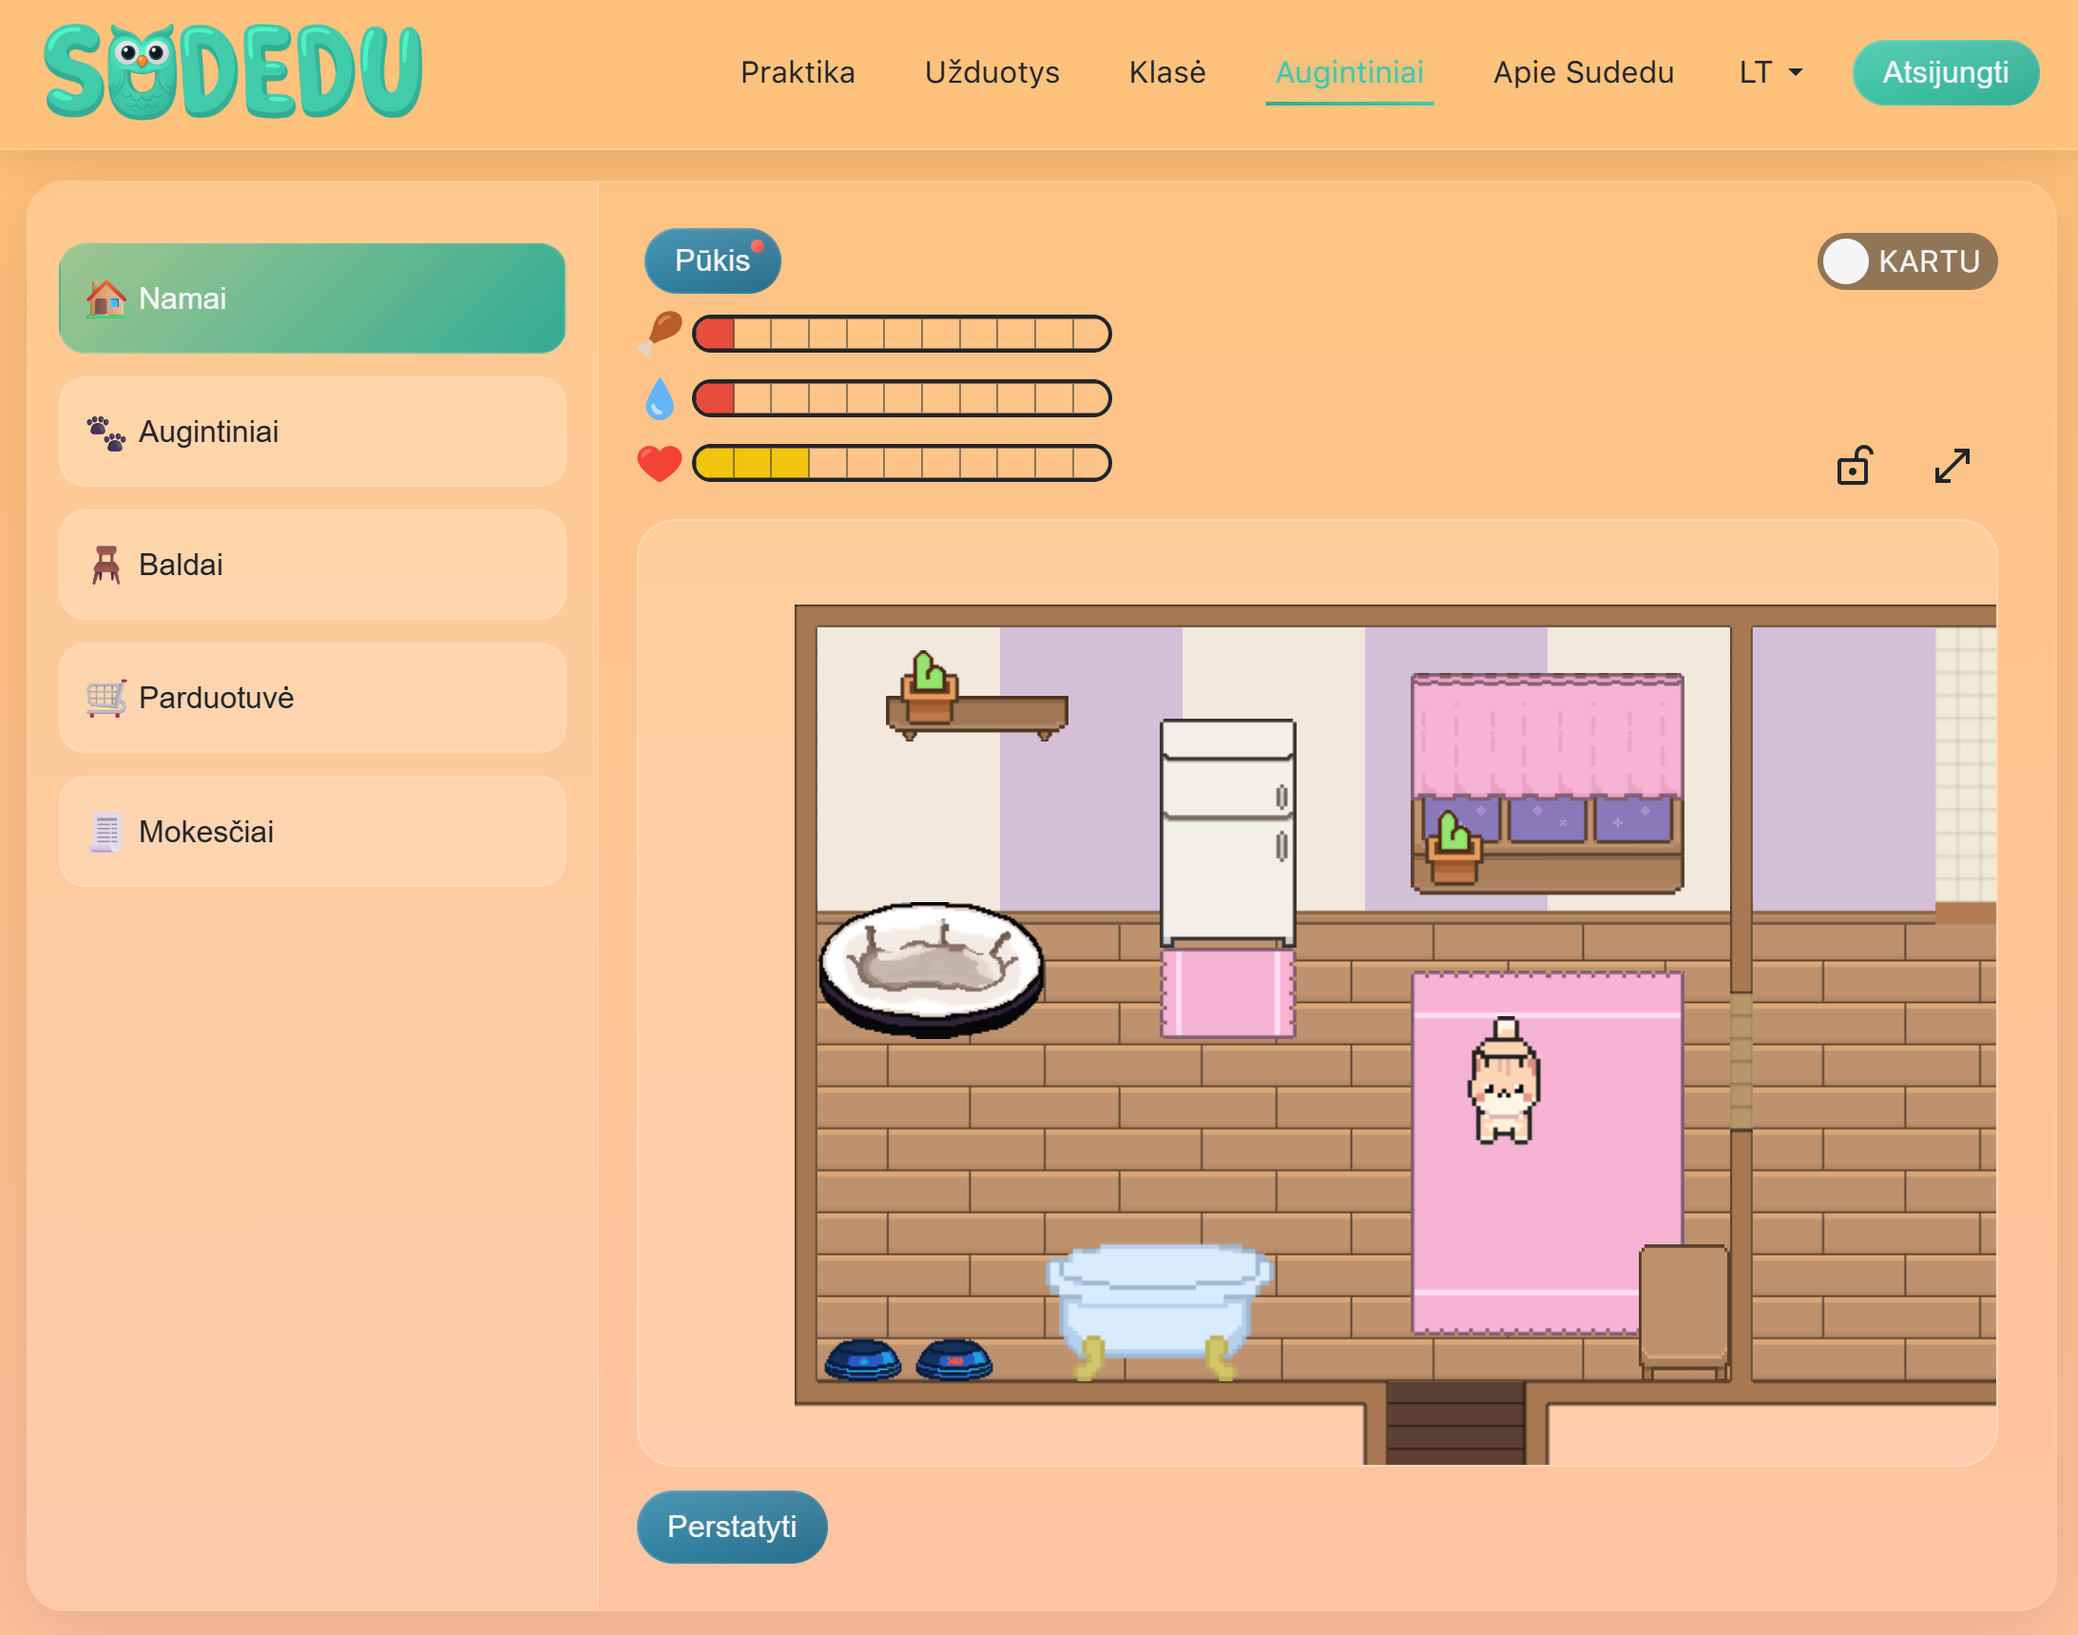
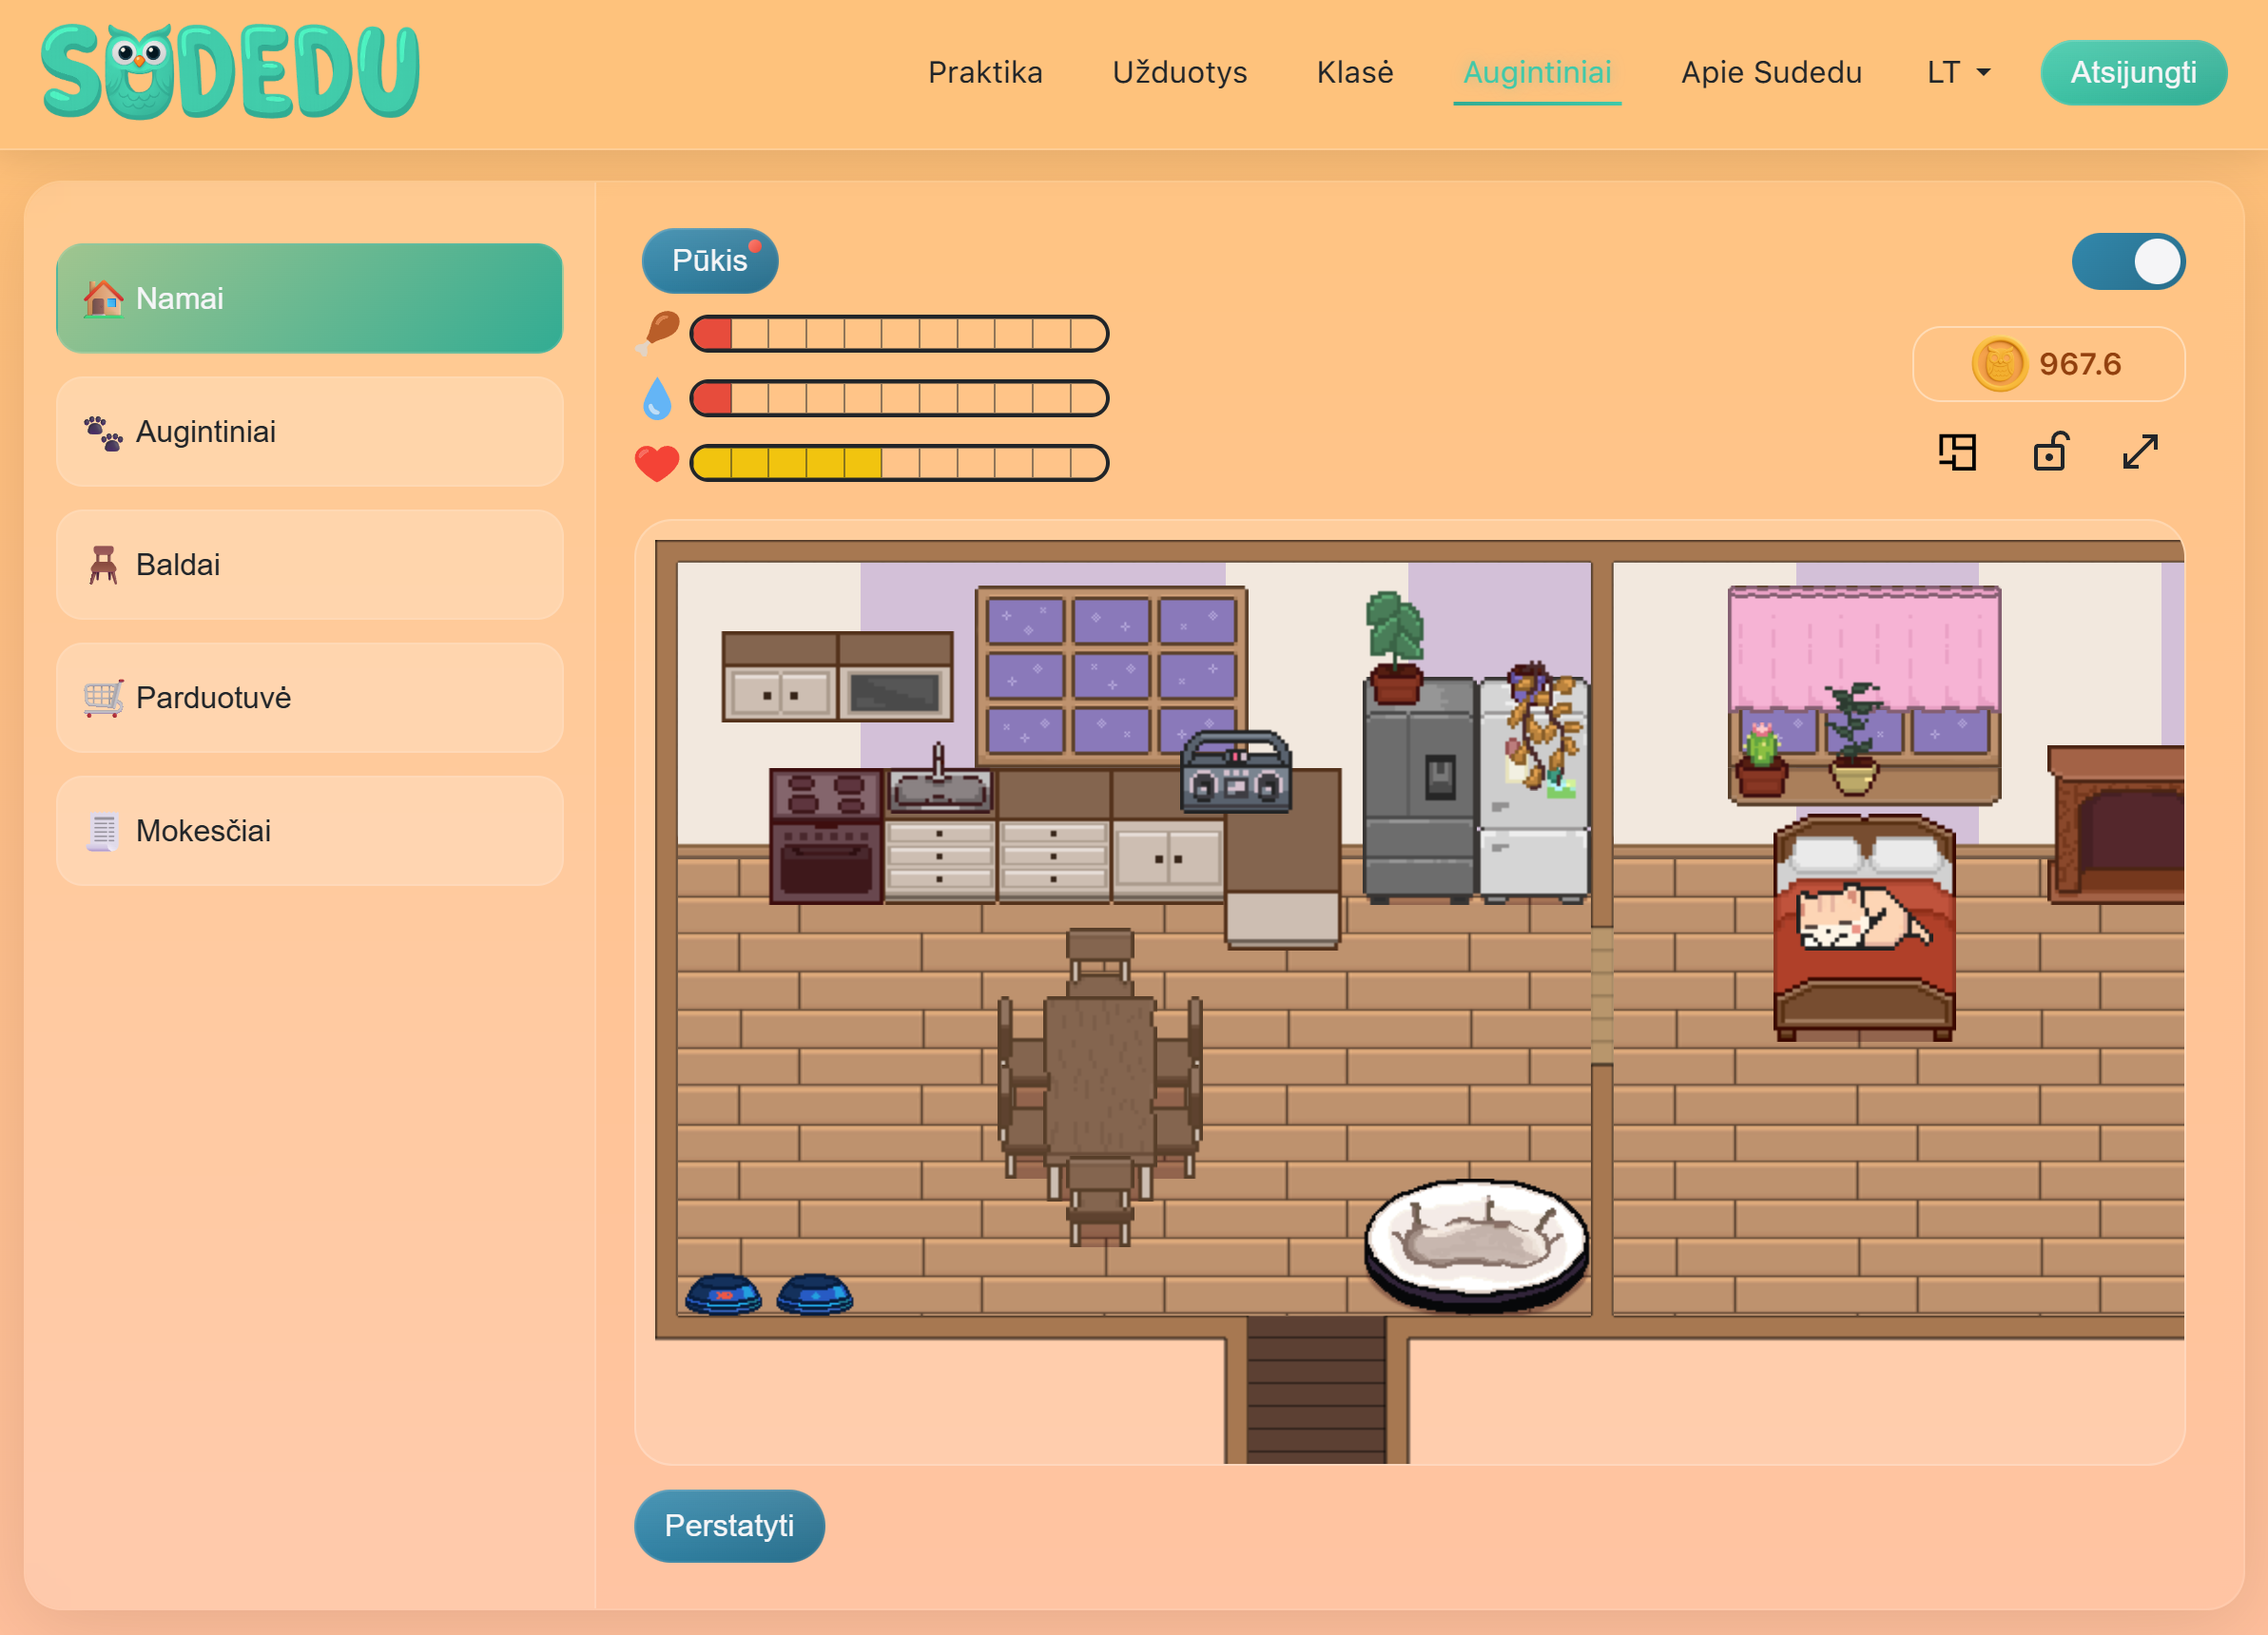
text-comp-point-calc-update

diff --git a/LT/apie.html b/LT/apie.html
@@ -122,6 +122,12 @@
             fill: #666;
         }
 
+        #floor-plan-btn-svg {
+            width: 20px;
+            height: 20px;
+            fill: #666;
+        }
+
         .stats-icon {
             height: 20px;
             width: 20px;
@@ -1262,8 +1268,9 @@
                                             </a></li>
                                         </ul>
                                         <li><a class="content-list-link" href="#mygtukas-kartu">Mygtukas „KARTU“</a></li>
-                                        <li><a class="content-list-link" href="#namu-dekoravimas">Namų dekoravimas</a></li>
+                                        <li><a class="content-list-link" href="#namu-dekoravimas">Namų planavimas</a></li>
                                         <ul style="padding-left: 10px;">
+                                            <li><a class="content-list-link" href="#kambariu-pristatymas">Kambarių pristatymas</a></li>
                                             <li><a class="content-list-link" href="#daiktu-pridejimas">Daiktų pridėjimas</a></li>
                                             <li><a class="content-list-link" href="#daiktu-perstatymas">Daiktų perstatymas</a></li>
                                             <li><a class="content-list-link" href="#daiktu-salinimas">Daiktų šalinimas</a></li>
@@ -1499,8 +1506,27 @@
 						<dd>
 							Mokinių taškai apskaičiuojami pagal SUDEDU formulę, paremtą pradinio ugdymo programa. Mokiniai taškus gauna tik atlikdami
 							užduotis, atitinkančias arba viršijančias jų žinių lygį. Matematikos ir gramtikos užduotyse, taškai skiriami tik už iš pirmo karto
-							teisingai atsakytus klausimus. Teksto suvokimo užduotyse, taškai uždirbami padarius iki 3 klaidų - kiekviena klaida maksimalų taškų
-							skaičių sumažina ketvirtadaliu.<br>
+							teisingai atsakytus klausimus. Teksto suvokimo užduotyse, galima gauti taškų ir padarius klaidų: 
+                            <ul>
+                                <li>Lengvas lygis:
+                                    <ul>
+                                        <li>1 klaida - 50% taškų</li>
+                                    </ul>
+                                </li>
+                                <li>Vidutinis lygis:
+                                    <ul>
+                                        <li>1 klaida - 50% taškų</li>
+                                        <li>2 klaidos - 25% taškų</li>
+                                    </ul>
+                                </li>
+                                <li>Sunkus lygis:
+                                    <ul>
+                                        <li>1 klaida - 50% taškų</li>
+                                        <li>2 klaidos - 25% taškų</li>
+                                        <li>3 klaidos - 10% taškų</li>
+                                    </ul>
+                                </li>
+                            </ul>
 							Taškai rodomi kaip paskutinių 8 savaičių vidurkis; šalia skliaustuose gali būti rodoma klasės mediana.
 						</dd>
 
@@ -1643,8 +1669,28 @@
                         išleisti „<span class="stressed-text">Augintiniai</span>“ puslapyje (plačiau <a href="#monetu-panaudojimas">čia</a>).
                         <ul>
                             <li>Matematikos ir rašybos užduotyse iššūkio taškai gaunami už iš pirmo karto teisingai atsakytą klausimą ir prarandami už
-                                kiekvieną klaidą (net jei jos padarytos atsakant į tą patį klausimą). Teksto supratimo užduotyse taškai gaunami už sudėliotą tekstą, padarius iki 3 klaidų; kiekviena klaida 
-                                sumažina taškų, gaunamų už tą tekstą, kiekį ketvirtadaliu.</li>
+                                kiekvieną klaidą (net jei jos padarytos atsakant į tą patį klausimą). Teksto supratimo užduotyse taškai gali būti gaunami ir padarius klaidų:
+                                <ul>
+                                    <li>Lengvas lygis:
+                                        <ul>
+                                            <li>1 klaida - 50% taškų</li>
+                                        </ul>
+                                    </li>
+                                    <li>Vidutinis lygis:
+                                        <ul>
+                                            <li>1 klaida - 50% taškų</li>
+                                            <li>2 klaidos - 25% taškų</li>
+                                        </ul>
+                                    </li>
+                                    <li>Sunkus lygis:
+                                        <ul>
+                                            <li>1 klaida - 50% taškų</li>
+                                            <li>2 klaidos - 25% taškų</li>
+                                            <li>3 klaidos - 10% taškų</li>
+                                        </ul>
+                                    </li>
+                                </ul>
+                            </li>
                             <li>Individualus mokinio laimėjimas priklauso nuo užimtos prizinės vietos ir nuo to, kiek mokinių dalijasi prizinį fondą.</li>
                             <li>Mokiniai klasės savaitės iššūkį gali atlikti tiek kartų, kiek nori – bus įskaitytas tik jų geriausias asmeninis rezultatas.</li>
                             <li>Pats iššūkio atlikimas (ne laimėjimas) neuždirba SUDEDU monetų ir neprisideda prie taškų skaičiavimo taip, kaip įprastos priskirtos ar savarankiškai pasirinktos užduotys.</li>
@@ -1712,8 +1758,27 @@
                                     </span>
                                     - už kiekvieną iš pirmo karto teisingai atsakytą klausimą bus uždirbtos 0.71 SUDEDU monetos). 
                                     Matematikos ir gramatikos užduotys, monetos uždirbamos tik už iš pirmo karto teisingai atsakytus klausimus. 
-                                    Teksto suvokimo užduotyse SUDEDU monetos uždirbamos padarius iki 3 klaidų - kiekviena klaida maksimalų uždarbį 
-                                    sumažina ketvirtadaliu.
+                                    Teksto suvokimo užduotyse SUDEDU monetos gali būti uždirbamos ir padarius klaidų:
+                                    <ul>
+                                        <li>Lengvas lygis:
+                                            <ul>
+                                                <li>1 klaida - 50% monetų</li>
+                                            </ul>
+                                        </li>
+                                        <li>Vidutinis lygis:
+                                            <ul>
+                                                <li>1 klaida - 50% monetų</li>
+                                                <li>2 klaidos - 25% monetų</li>
+                                            </ul>
+                                        </li>
+                                        <li>Sunkus lygis:
+                                            <ul>
+                                                <li>1 klaida - 50% monetų</li>
+                                                <li>2 klaidos - 25% monetų</li>
+                                                <li>3 klaidos - 10% monetų</li>
+                                            </ul>
+                                        </li>
+                                    </ul>
                                 </li>
                                 <li>Uždarbis priklauso nuo užduoties ir mokinio klasės - atliekant užduotis, kurios pagal priešmokyklinio 
                                     ugdymo programą yra per lengvos tos klasės mokiniams, uždirbama mažiau monetų arba jos neuždirbamos iš viso. 
@@ -1959,8 +2024,26 @@
                                 <img src="../images/about-images/LT/user-instructions-15.png" class="user-instruction-image" alt="Praktikos skiltis">
                             </div>
 
-                            <dt id="namu-dekoravimas">Namų dekoravimas</dt> 
+                            <dt id="namu-dekoravimas">Namų planavimas</dt> 
                             <dd>
+                                <div id="kambariu-pristatymas" class="subsubtitle">
+                                    Kambarių pristatymas
+                                </div> 
+                                <ul>
+                                    <li>
+                                    Mokiniai gali išplėsti savo augintinio namus paspaudę 
+                                    <svg
+                                        class="svg-icon"
+                                        id="floor-plan-btn-svg"
+                                        xmlns="http://www.w3.org/2000/svg"
+                                        viewBox="0 0 1024 800"
+                                        aria-hidden="true"
+                                    >
+                                        <path d="M96 96v480h80V176h208v272h448v384H464V560h-80v128H96v80h288v144h528V96H96z m736 272H464V176h368v192z"/>
+                                    </svg> mygtuką. 
+                                    </li>
+                                </ul>
+
                                 <div id="daiktu-pridejimas" class="subsubtitle">
                                     Daiktų pridėjimas
                                 </div> 

diff --git a/mental-arithmetic.js b/mental-arithmetic.js
@@ -664,15 +664,24 @@ async function sendSetTaskResultsToDatabase() {
       const mistakes = controller.mistakesTracker || 1; // avoid dividing by 0
 
       function calculateTotalScoreForTextComp(list) {
+        // define mistake → multiplier rules per difficulty
+        const difficultyRules = {
+          C58: [1, 0.5],               // 0, 1 mistakes
+          C59: [1, 0.5, 0.25],         // 0–2 mistakes
+          C60: [1, 0.5, 0.25, 0.1]     // 0–3 mistakes
+        };
+
+        const rules = difficultyRules[controller.modeChoiceLtDifficulty] || [];
+
         const total = list.reduce((sum, [, mistakes]) => {
-          let score = 1 - mistakes * 0.25;
-          score = Math.max(0, score); // prevent negatives
-          return sum + score;
+          const multiplier = rules[mistakes] ?? 0;
+          return sum + multiplier;
         }, 0);
 
         // round final result to 2 decimals
         return Number(total.toFixed(2));
       }
+
 
       let resultsData;
 
@@ -925,11 +934,23 @@ async function updateStudentPointsAndStatistics(coinMultiplier=1) {
 
       pointsEarned = await calculateTasksPerCorrectAnswerPoints("controller");
 
-      pointsEarned = 
-          (IDsOfTextsWithZeroMistakes.length * pointsEarned * 1)
-        + (IDsOfTextsWithOneMistake.length * pointsEarned * 0.75)
-        + (IDsOfTextsWithTwoMistakes.length * pointsEarned * 0.5)
-        + (IDsOfTextsWithThreeMistakes.length * pointsEarned * 0.25);
+      if (controller.modeChoiceLtDifficulty === "C58") {
+        pointsEarned = 
+            (IDsOfTextsWithZeroMistakes.length * pointsEarned * 1)
+          + (IDsOfTextsWithOneMistake.length * pointsEarned * 0.5)
+      } else if (controller.modeChoiceLtDifficulty === "C59") {
+        pointsEarned = 
+            (IDsOfTextsWithZeroMistakes.length * pointsEarned * 1)
+          + (IDsOfTextsWithOneMistake.length * pointsEarned * 0.5)
+          + (IDsOfTextsWithTwoMistakes.length * pointsEarned * 0.25)
+      } else if (controller.modeChoiceLtDifficulty === "C60") {
+        pointsEarned = 
+            (IDsOfTextsWithZeroMistakes.length * pointsEarned * 1)
+          + (IDsOfTextsWithOneMistake.length * pointsEarned * 0.5)
+          + (IDsOfTextsWithTwoMistakes.length * pointsEarned * 0.25)
+          + (IDsOfTextsWithThreeMistakes.length * pointsEarned * 0.1);
+      }
+
 
     } else {
       pointsEarned = await calculateTasksPerCorrectAnswerPoints("controller");
@@ -4161,11 +4182,24 @@ async function calculateTasksPerCorrectAnswerPoints(type, selectedTextInfo = nul
 
               const mistakes = mistakesMap.get(textId) ?? 0;
 
-              let multiplier =
+              let multiplier;
+
+              if (difficulty === "C58") {
+                multiplier =
                   mistakes === 0 ? 1 :
-                  mistakes === 1 ? 0.75 :
-                  mistakes === 2 ? 0.5 :
-                  mistakes === 3 ? 0.25 : 0;
+                  mistakes === 1 ? 0.5 : 0
+              } else if (difficulty === "C59") {
+                multiplier =
+                  mistakes === 0 ? 1 :
+                  mistakes === 1 ? 0.5 :
+                  mistakes === 2 ? 0.25 : 0
+              } else if (difficulty === "C60") {
+                multiplier =
+                  mistakes === 0 ? 1 :
+                  mistakes === 1 ? 0.5 :
+                  mistakes === 2 ? 0.25 :
+                  mistakes === 3 ? 0.1 : 0;
+              }
 
               customTextsTotal += perTextTotal * multiplier;
           }
